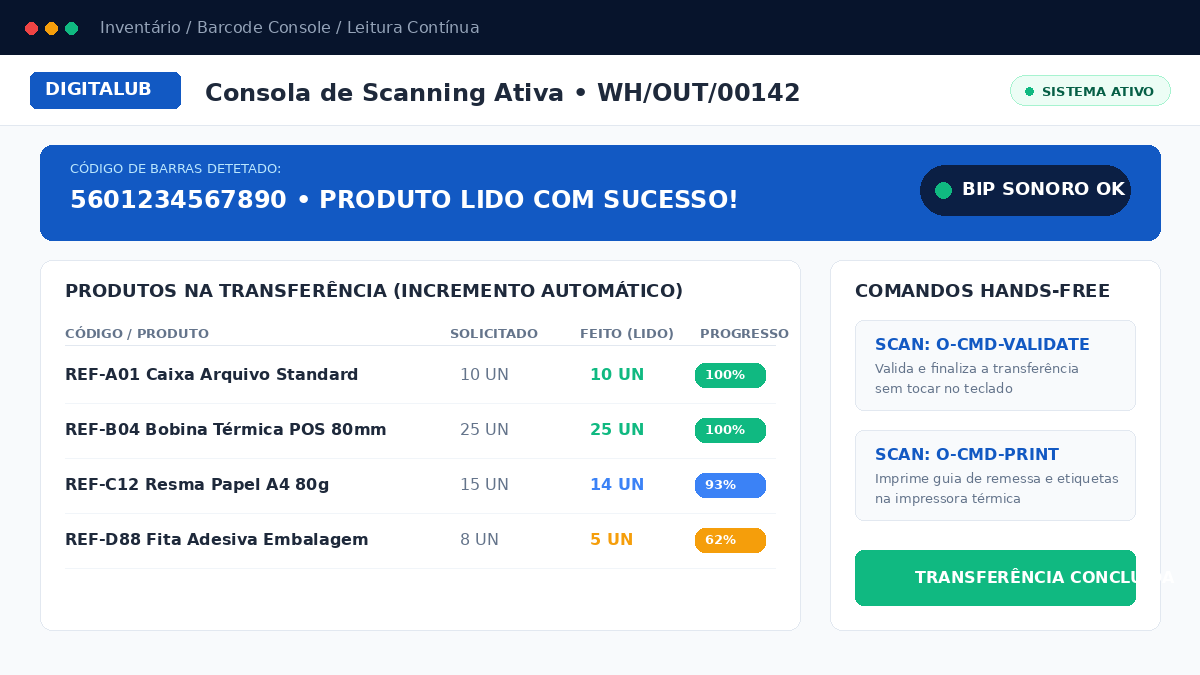
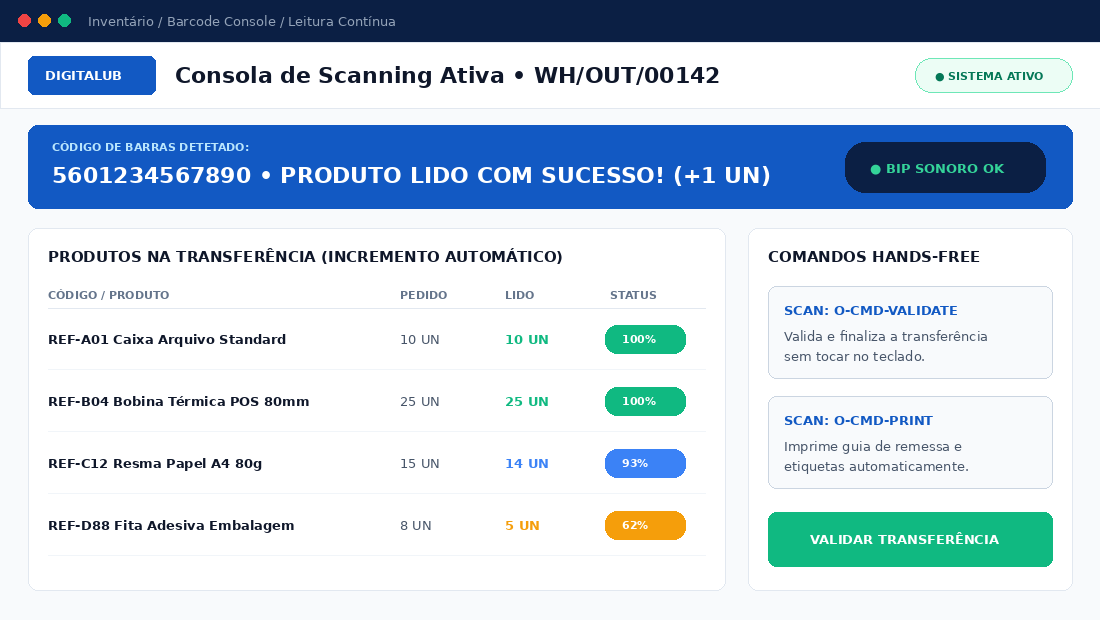
feat(dl_stock_barcode): support Odoo 16.0 and improve store screenshots

diff --git a/dl_stock_barcode/static/description/index.html b/dl_stock_barcode/static/description/index.html
@@ -27,7 +27,7 @@
         
         <!-- Compatibility Badges -->
         <div class="d-flex flex-wrap gap-2 align-items-center">
-          <span class="badge bg-white text-dark px-3 py-2 rounded-pill fw-bold" style="font-size: 0.8rem;">&#10004; Odoo 16.0 &bull; 17.0 &bull; 18.0</span>
+          <span class="badge bg-white text-dark px-3 py-2 rounded-pill fw-bold" style="font-size: 0.8rem;">&#10004; Odoo 15.0 &bull; 16.0 &bull; 17.0 &bull; 18.0 &bull; 19.0 &bull; 20.0</span>
           <span class="badge px-3 py-2 rounded-pill fw-semibold text-white" style="background-color: rgba(255, 255, 255, 0.15); border: 1px solid rgba(255, 255, 255, 0.25); font-size: 0.8rem;">Community &amp; Enterprise</span>
           <span class="badge px-3 py-2 rounded-pill fw-semibold" style="background-color: rgba(16, 185, 129, 0.25); border: 1px solid #10B981; font-size: 0.8rem; color: #A7F3D0;">Plug &amp; Play / Ready for Production</span>
         </div>
@@ -149,7 +149,7 @@
         <tbody>
           <tr style="border-bottom: 1px solid #F1F5F9;">
             <td class="fw-semibold text-secondary py-3" style="width: 32%;">Supported Versions</td>
-            <td class="py-3 text-dark fw-medium">Odoo 16.0, 17.0, 18.0 (Community &amp; Enterprise)</td>
+            <td class="py-3 text-dark fw-medium">Odoo 15.0, 16.0, 17.0, 18.0, 19.0, 20.0 (Community &amp; Enterprise)</td>
           </tr>
           <tr style="border-bottom: 1px solid #F1F5F9;">
             <td class="fw-semibold text-secondary py-3">Required Core Modules</td>

diff --git a/dl_stock_barcode/static/src/js/barcode_picking_model.js b/dl_stock_barcode/static/src/js/barcode_picking_model.js
@@ -6,6 +6,7 @@ import { useService } from "@web/core/utils/hooks";
 
 export class BarcodeScannerAction extends Component {
     static template = "dl_stock_barcode.ScannerTemplate";
+    static props = { "*": true };
 
     setup() {
         this.orm = useService("orm");

diff --git a/dl_stock_barcode/models/stock_picking.py b/dl_stock_barcode/models/stock_picking.py
@@ -1,5 +1,6 @@
+# -*- coding: utf-8 -*-
 from odoo import models, fields, api, _
-from odoo.exceptions import UserError
+
 
 class StockPicking(models.Model):
     _inherit = 'stock.picking'
@@ -14,7 +15,7 @@ class StockPicking(models.Model):
         picking_type = self.env['stock.picking.type'].search([('barcode', '=', barcode)], limit=1)
         if not picking_type and '-' in barcode:
             picking_type = self.env['stock.picking.type'].search([('barcode', '=', barcode.replace('-', '/'))], limit=1)
-        
+
         if picking_type:
             new_picking = self.create({
                 'picking_type_id': picking_type.id,
@@ -30,21 +31,20 @@ class StockPicking(models.Model):
         # 2. VERIFICAR SE É UMA TRANSFERÊNCIA EXISTENTE
         picking = self.search([('name', '=', barcode)], limit=1)
         if not picking and '-' in barcode:
-            # Fallback para leitores de código de barras desconfigurados (US layout em teclados PT)
             picking = self.search([('name', '=', barcode.replace('-', '/'))], limit=1)
-            
+
         if not picking:
-            # Fallback mais robusto ignorando diferenças de formatação (ilike e name_search)
             res = self.name_search(name=barcode, operator='ilike', limit=1)
             if res:
                 picking = self.browse(res[0][0])
         if picking:
             lines_data = []
             for ml in picking.move_line_ids:
+                qty_val = getattr(ml, 'quantity', getattr(ml, 'qty_done', 0.0))
                 lines_data.append({
                     'product_id': f"{ml.product_id.id}_{ml.lot_id.id if ml.lot_id else 'False'}",
                     'name': ml.product_id.name + (f" (Lote: {ml.lot_id.name})" if ml.lot_id else ""),
-                    'qty': ml.quantity,
+                    'qty': qty_val,
                 })
             grouped_lines = {}
             for line in lines_data:
@@ -64,17 +64,17 @@ class StockPicking(models.Model):
         location = self.env['stock.location'].search([('barcode', '=', barcode)], limit=1)
         if not location and '-' in barcode:
             location = self.env['stock.location'].search([('barcode', '=', barcode.replace('-', '/'))], limit=1)
-            
+
         if location:
             quants = self.env['stock.quant'].search([('location_id', '=', location.id)])
             lines_data = []
             for q in quants:
                 name = q.product_id.name + (f" (Lote: {q.lot_id.name})" if q.lot_id else "")
-                qty = q.inventory_quantity if q.inventory_quantity_set else q.quantity
+                qty = q.inventory_quantity if getattr(q, 'inventory_quantity_set', False) else q.quantity
                 if qty > 0:
                     lines_data.append({
-                        'product_id': f"{q.product_id.id}_{q.lot_id.id if q.lot_id else 'False'}", 
-                        'name': name, 
+                        'product_id': f"{q.product_id.id}_{q.lot_id.id if q.lot_id else 'False'}",
+                        'name': name,
                         'qty': qty
                     })
             return {
@@ -105,15 +105,16 @@ class StockPicking(models.Model):
 
         # 5. VERIFICAR SE É UM PRODUTO OU LOTE PARA ADICIONAR QUANTIDADE
         if picking_id or location_id:
-            lot = self.env['stock.lot'].search([('name', '=', barcode)], limit=1)
+            lot_model = 'stock.lot' if 'stock.lot' in self.env else 'stock.production.lot'
+            lot = self.env[lot_model].search([('name', '=', barcode)], limit=1)
             product = lot.product_id if lot else self.env['product.product'].search([('barcode', '=', barcode)], limit=1)
-            
+
             if product:
                 if picking_id:
                     self._dl_add_product_line(self.browse(picking_id), product, lot)
                 elif location_id:
                     self._dl_add_quant(location_id, product, lot)
-                    
+
                 pname = product.name + (f" (Lote: {lot.name})" if lot else "")
                 return {
                     'action': 'product_added',
@@ -122,42 +123,51 @@ class StockPicking(models.Model):
                     'message': f'{pname} adicionado (+1)'
                 }
 
-        # Se chegou até aqui e não encontrou nada
         return {
             'action': 'error',
             'message': f'Código de barras "{barcode}" não reconhecido ou inválido neste contexto.'
         }
 
     def _dl_add_product_line(self, picking, product, lot=None, qty=1):
-        """ Incrementa a quantidade da linha do produto ou cria uma nova se não existir """
+        """Incrementa a quantidade da linha do produto ou cria uma nova se não existir"""
         domain = lambda l: l.product_id.id == product.id and (l.lot_id.id == lot.id if lot else not l.lot_id)
         move_line = picking.move_line_ids.filtered(domain)
-        
+        sml_fields = self.env['stock.move.line']._fields
+
         if move_line:
-            move_line[0].quantity += qty
+            if 'quantity' in sml_fields:
+                move_line[0].quantity += qty
+            else:
+                move_line[0].qty_done += qty
         else:
-            move = picking.move_ids.filtered(lambda m: m.product_id.id == product.id)
-            self.env['stock.move.line'].create({
+            moves = getattr(picking, 'move_ids', getattr(picking, 'move_ids_without_package', self.env['stock.move']))
+            move = moves.filtered(lambda m: m.product_id.id == product.id)
+            vals = {
                 'picking_id': picking.id,
                 'move_id': move[0].id if move else False,
                 'product_id': product.id,
-                'product_uom_id': product.uom_id.id,
                 'location_id': picking.location_id.id,
                 'location_dest_id': picking.location_dest_id.id,
                 'lot_id': lot.id if lot else False,
-                'quantity': qty,
-            })
+            }
+            if 'product_uom_id' in sml_fields:
+                vals['product_uom_id'] = product.uom_id.id
+            if 'quantity' in sml_fields:
+                vals['quantity'] = qty
+            else:
+                vals['qty_done'] = qty
+            self.env['stock.move.line'].create(vals)
 
     def _dl_add_quant(self, location_id, product, lot=None):
-        """ Incrementa a quantidade contada no inventário (stock.quant) """
+        """Incrementa a quantidade contada no inventário (stock.quant)"""
         quant = self.env['stock.quant'].search([
             ('location_id', '=', location_id),
             ('product_id', '=', product.id),
             ('lot_id', '=', lot.id if lot else False)
         ], limit=1)
-        
+
         if quant:
-            if not quant.inventory_quantity_set:
+            if not getattr(quant, 'inventory_quantity_set', False):
                 quant.inventory_quantity = quant.quantity + 1
             else:
                 quant.inventory_quantity += 1

diff --git a/dl_stock_barcode/__manifest__.py b/dl_stock_barcode/__manifest__.py
@@ -1,10 +1,10 @@
 # -*- coding: utf-8 -*-
 {
     'name': 'Mobile Stock Barcode Scanner for Community',
-    'version': '16.0.1.0.6',
+    'version': '16.0.1.0.9',
     'summary': 'Zero Hardware Lock-in Mobile Barcode Scanning, Real-time Inventory & Fast Picking Automation',
-        'description': """
-        Professional Barcode Scanner & Picking Management for Odoo Community & Enterprise.
+    'description': """
+        Professional Barcode Scanner & Picking Management for Odoo 15, 16, 17, 18, 19 & 20 (Community & Enterprise).
         - High-speed reactive OWL scanning console.
         - Real-time continuous scanning with automatic quantity increment (+1 Qty).
         - Hands-free Action Command Barcodes (Validate, Cancel, Print).
@@ -14,39 +14,32 @@
     """,
     'author': 'DIGITALUB ANGOLA, LDA',
     'website': 'https://www.digitalub.ao',
+    'support': 'suporte@digitalub.ao',
     'category': 'Inventory/Inventory',
     'license': 'OPL-1',
-
-    # Preço atualizado
     'price': 49.0,
     'currency': 'USD',
-    
-    # Dependências do módulo
     'depends': [
         'base',
         'stock',
         'barcodes',
     ],
-
-    # Ficheiros XML carregados no arranque
     'data': [
         'data/barcode_nomenclature_data.xml',
         'views/barcode_menu_views.xml',
     ],
-
     'assets': {
         'web.assets_backend': [
             'dl_stock_barcode/static/src/css/barcode_styles.css',
             'dl_stock_barcode/static/src/js/barcode_picking_model.js',
-        ],
-        'web.assets_qweb': [
             'dl_stock_barcode/static/src/xml/barcode_templates.xml',
         ],
     },
-
-    # CORREÇÃO AQUI: Apontar para o ficheiro de imagem correto que está no seu servidor
     'images': [
         'static/description/banner.png',
+        'static/description/step1_barcode_config.png',
+        'static/description/step2_barcode_scan.png',
+        'static/description/step3_barcode_validate.png',
     ],
     'installable': True,
     'application': True,
